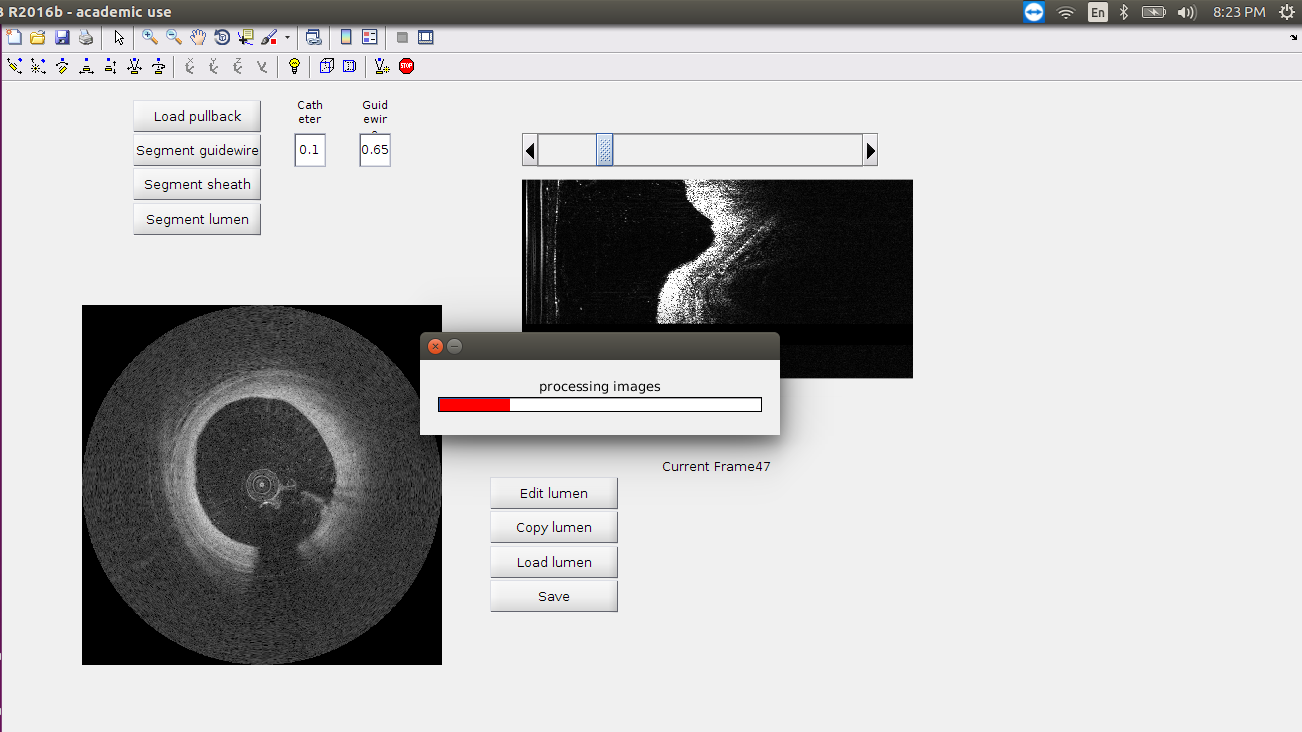
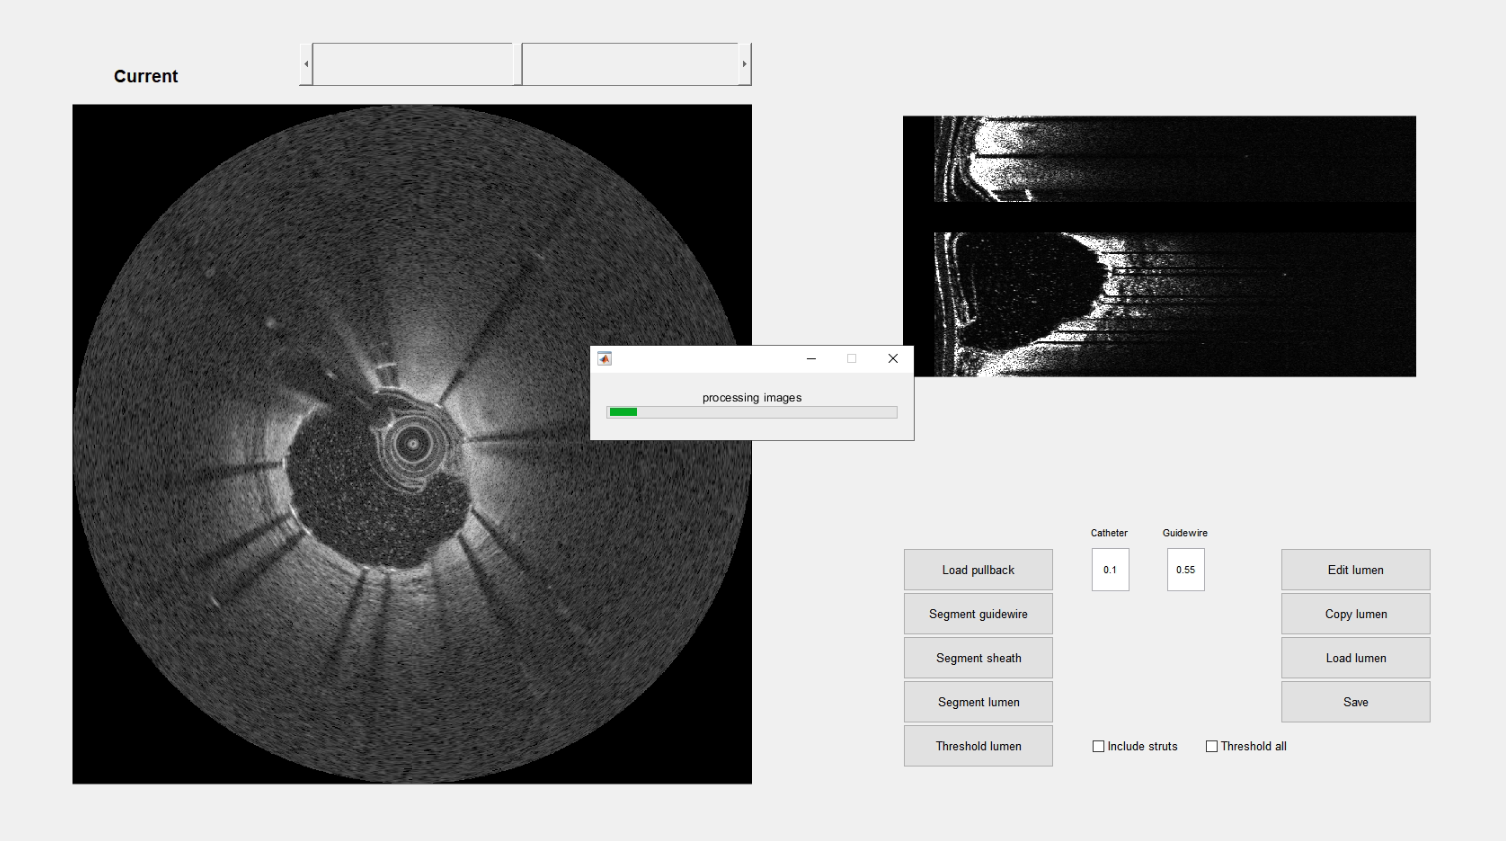
Updated docs and GUI

diff --git a/OCT_GUI.m b/OCT_GUI.m
@@ -13,59 +13,73 @@ rect = [0.35 0.2*aspect_ratio];
 
 % first axis for displaying cartesian view
 GUI.Ax1 = axes('Parent', GUI.Fig, 'Units', 'normalized', 'position', ...
-    [0.05 0.15 1.5*rect(2) 1.5*rect(1)]);
+    [0.05 0.1 2.25*rect(2) 2.25*rect(1)]);
 GUI.Ax1.XTick=0;
 GUI.Ax1.YTick=0;
 
 % second axis for displaying polar view
 GUI.Ax2 = axes('Parent', GUI.Fig, 'Units', 'normalized', 'position', ...
-    [0.4 0.45 1.5*rect(2) 1.5*rect(1)]);
+    [0.6 0.5 1.7*rect(2) 1.25*rect(1)]);
 GUI.Ax2.XTick=0;
 GUI.Ax2.YTick=0;
 
 % buttons for segmentation
 uicontrol('Parent', GUI.Fig, 'style','pushbutton','units', 'normalized', ...
-    'Position',[0.1 0.925 0.1 0.05], 'String', 'Load pullback',...
+    'Position',[0.6 0.325 0.1 0.05], 'String', 'Load pullback',...
     'Callback',@load_images, 'fontsize', 10);
 uicontrol('Parent', GUI.Fig, 'style','pushbutton','units', 'normalized', ...
-    'Position',[0.1 0.875 0.1 0.05], 'String', 'Segment guidewire',...
+    'Position',[0.6 0.275 0.1 0.05], 'String', 'Segment guidewire',...
     'Callback',@segment_gw, 'fontsize', 10);
 uicontrol('Parent', GUI.Fig, 'style','pushbutton','units', 'normalized', ...
-    'Position',[0.1 0.825 0.1 0.05], 'String', 'Segment sheath',...
+    'Position',[0.6 0.225 0.1 0.05], 'String', 'Segment sheath',...
     'Callback',@segment_sheath, 'fontsize', 10);
 uicontrol('Parent', GUI.Fig, 'style','pushbutton','units', 'normalized', ...
-    'Position',[0.1 0.775 0.1 0.05], 'String', 'Segment lumen',...
+    'Position',[0.6 0.175 0.1 0.05], 'String', 'Segment lumen',...
+    'TooltipString', ['Segment all images with dynamic programming'], ...
     'Callback',@segment_lumen, 'fontsize', 10);
 uicontrol('Parent', GUI.Fig, 'style','pushbutton','units', 'normalized', ...
-    'Position',[0.375 0.375 0.1 0.05], 'String', 'Edit lumen',...
-    'Callback',@edit_seg, 'fontsize', 10);
+    'Position',[0.6 0.125 0.1 0.05], 'String', 'Threshold lumen',...
+    'TooltipString', ['Segment current image with threshold'], ...
+    'Callback',@threshold_lumen, 'fontsize', 10);
+
 uicontrol('Parent', GUI.Fig, 'style','pushbutton','units', 'normalized', ...
-    'Position',[0.375 0.325 0.1 0.05], 'String', 'Copy lumen',...
+    'Position',[0.85 0.325 0.1 0.05], 'String', 'Edit lumen',...
+    'Callback',@edit_seg_spline, 'fontsize', 10);
+uicontrol('Parent', GUI.Fig, 'style','pushbutton','units', 'normalized', ...
+    'Position',[0.85 0.275 0.1 0.05], 'String', 'Copy lumen',...
     'Callback',@copy_seg, 'fontsize', 10, 'ToolTipString', ['Copy lumen contour from previous image']);
 uicontrol('Parent', GUI.Fig, 'style','pushbutton','units', 'normalized', ...
-    'Position',[0.375 0.275 0.1 0.05], 'String', 'Load lumen', ...
+    'Position',[0.85 0.225 0.1 0.05], 'String', 'Load lumen', ...
     'Callback',@load_seg, 'fontsize', 10, 'ToolTipString', ['Load saved lumen contour']);
 uicontrol('Parent', GUI.Fig, 'style','pushbutton','units', 'normalized', ...
-    'Position',[0.375 0.225 0.1 0.05], 'String', 'Save', ...
+    'Position',[0.85 0.175 0.1 0.05], 'String', 'Save', ...
     'Callback',@save_seg, 'fontsize', 10);
 
 % initialize first image
 GUI.OCT_image = 1;
-GUI.Txt = uicontrol('Style', 'text',  'Units', 'Normalized', 'FontSize', 10, 'Position', [0.5 0.4 0.1 0.05], 'String',strcat('Current Frame', num2str(GUI.OCT_image)));
+
+GUI.Txt = uicontrol('Style', 'text',  'Units', 'Normalized', 'FontSize', 14, 'FontWeight', 'bold', ...
+    'Position', [0.05 0.9 0.1 0.025], 'String',strcat('Current Frame :', num2str(GUI.OCT_image)));
 
 % edit and text boxes for guidewire thresholds
 img_cath_threshold = 0.2;
 gw_threshold = 0.6;
 GUI.s2 = uicontrol('Parent', GUI.Fig, 'style','edit','units', 'normalized', ...
-    'Position',[0.225 0.875 0.025 0.05], 'String', string(img_cath_threshold), ...
-    'ToolTipString', ['Enter a value for thresholding the catheter']);
+    'Position',[0.725 0.325 0.025 0.05], 'String', string(img_cath_threshold), ...
+    'ToolTipString', ['Enter a value for thresholding the catheter, use a greater value if more than the catheter is removed']);
 GUI.s3 = uicontrol('Parent', GUI.Fig, 'style','edit','units', 'normalized', ...
-    'Position',[0.275 0.875 0.025 0.05], 'String', string(gw_threshold), ...
+    'Position',[0.775 0.325 0.025 0.05], 'String', string(gw_threshold), ...
     'ToolTipString', ['Enter a value for thresholding the guidewire']);
-GUI.Txt1 = uicontrol('Style', 'text',  'Units', 'Normalized', 'FontSize', 8, 'Position', [0.225 0.925 0.025 0.05], 'String','Catheter');
-GUI.Txt2 = uicontrol('Style', 'text',  'Units', 'Normalized', 'FontSize', 8, 'Position', [0.275 0.925 0.025 0.05], 'String','Guidewire');
+GUI.Txt1 = uicontrol('Style', 'text',  'Units', 'Normalized', 'FontSize', 8, 'Position', [0.72 0.375 0.035 0.025], 'String','Catheter');
+GUI.Txt2 = uicontrol('Style', 'text',  'Units', 'Normalized', 'FontSize', 8, 'Position', [0.77 0.375 0.035 0.025], 'String','Guidewire');
 
-
+% checkbox for including stent struts in segmentation
+GUI.s4 = uicontrol('Parent', GUI.Fig, 'style','checkbox','units', 'normalized', ...
+    'Position',[0.725 0.125 0.1 0.05], 'String', 'Include struts', 'fontsize', 10, ...
+    'ToolTipString', ['Check this to include the stent struts inside the lumen mask']);
+GUI.s5 = uicontrol('Parent', GUI.Fig, 'style','checkbox','units', 'normalized', ...
+    'Position',[0.80 0.125 0.1 0.05], 'String', 'Threshold all', 'fontsize', 10, ...
+    'ToolTipString', ['Check this to threshold all images, otherwise just the current image will be processed']);
 
 OCT_polar = [];
 OCT_cart = [];
@@ -74,9 +88,14 @@ OCT_sheath = [];
 output_size = 1024;
 OCT_lumen_contour = [];
 OCT_contour_cart = {};
+OCT_spline = [];
 
 function slide_images(hObj, eventdata)
     GUI.OCT_image = round(get(hObj, 'value'));
+    update_display()
+end
+
+function update_display()
     cla(GUI.Ax1)
     cla(GUI.Ax2)
     imshow(OCT_cart(:,:,GUI.OCT_image), [0 250], 'Parent', GUI.Ax1)
@@ -94,7 +113,7 @@ function load_images(hObj, eventdata)
     format = questdlg('Choose format', 'Select format of OCT files', 'raw (.oct)', 'dicom', 'raw (.oct)');
     output_size = 1024;
     if strcmp(format, 'dicom')
-        [OCT_polar OCT_cart] = OCT_cart2pol('dicom', output_size);
+        [OCT_polar OCT_cart] = OCT_cart2pol();
         GUI.s2.String = string(0.5);
         GUI.s3.String = string(0.8);
     elseif strcmp(format, 'raw (.oct)')
@@ -108,7 +127,7 @@ function load_images(hObj, eventdata)
 
     % create slider
     GUI.s1 = uicontrol('Parent', GUI.Fig, 'Style', 'slider', 'units', 'normalized',...
-    'Min', 1, 'Max',length(OCT_cart(1,1,:)),'Value',1,'Position', [0.4 0.875 0.275 0.05],...
+    'Min', 1, 'Max',length(OCT_cart(1,1,:)),'Value',1,'Position', [0.2 0.9 0.3 0.05],...
         'sliderstep', [1/length(OCT_cart(1,1,:)) 10/length(OCT_cart(1,1,:))], 'Callback', @slide_images); 
     imshow(OCT_cart(:,:,GUI.OCT_image), [0 250], 'Parent', GUI.Ax1)
     imshow(OCT_gw(:,:,GUI.OCT_image), [0 250], 'Parent', GUI.Ax2)
@@ -148,6 +167,31 @@ function segment_lumen(hObj, eventdata)
     plot(OCT_contour_cart{GUI.OCT_image}(:, 1), OCT_contour_cart{GUI.OCT_image}(:, 2), 'Parent', GUI.Ax1)
 end
 
+function threshold_lumen(hObj, eventdata)
+    % thresholds the current image to produce lumen segmentation
+    include_struts = get(GUI.s4, 'value');
+    if get(GUI.s5, 'value') == 1
+        h = waitbar(0, 'processing images');
+        for i =1:length(OCT_gw(1,1,:))
+            waitbar(i/length(OCT_gw(1, 1, :)));
+            OCT_lumen_contour1 = OCT_threshold(OCT_gw(:, :, i), OCT_sheath(:, i), include_struts);
+            OCT_lumen_contour(:, i) = OCT_lumen_contour1;
+            OCT_lumen_contour1 = circshift(OCT_lumen_contour1, length(OCT_lumen_contour1(:,1))/2);
+            OCT_contour_cart(i) = contour2cart(OCT_lumen_contour1, OCT_polar, round(length(OCT_cart(:,1,1,1))/2)*2, 0);            
+        end
+        close(h);
+    else
+        OCT_lumen_contour1 = OCT_threshold(OCT_gw(:, :, GUI.OCT_image), OCT_sheath(:, GUI.OCT_image), include_struts);
+        OCT_lumen_contour(:, GUI.OCT_image) = OCT_lumen_contour1;
+        % convert to cartesian
+        OCT_lumen_contour1 = circshift(OCT_lumen_contour1, length(OCT_lumen_contour1(:,1))/2);
+        OCT_contour_cart(GUI.OCT_image) = contour2cart(OCT_lumen_contour1, OCT_polar, round(length(OCT_cart(:,1,1,1))/2)*2, 0);
+    end
+    plot(OCT_contour_cart{GUI.OCT_image}(:, 1), OCT_contour_cart{GUI.OCT_image}(:, 2), 'Parent', GUI.Ax1)
+    plot(OCT_lumen_contour(:, GUI.OCT_image), 1:length(OCT_gw(:, 1, 1)), 'Parent', GUI.Ax2)
+
+end
+
 function edit_seg(hObj, eventdata)
     % manually edit the segmentation
     % user clicks once to select the point and a second time to place
@@ -158,7 +202,7 @@ function edit_seg(hObj, eventdata)
 %     for i = 1:length(OCT_contour_cart)
         % determine how much undersampling is required
         i=GUI.OCT_image;
-        under_sample = round(length(OCT_contour_cart{1}(:, 1))/30);
+        under_sample = round(length(OCT_contour_cart{i}(:, 1))/30);
         OCT_contour_cart2{i}(:, 1) = OCT_contour_cart{i}(1:under_sample:end, 1);
         OCT_contour_cart2{i}(:, 2) = OCT_contour_cart{i}(1:under_sample:end, 2);
 %     end
@@ -199,6 +243,49 @@ function edit_seg(hObj, eventdata)
         end
     end
     
+end
+
+function edit_seg_spline(hObj, eventdata)
+    % manually edit the segmentation
+    % user  drags sline points around    
+    % downsample contour
+    if length(OCT_contour_cart{GUI.OCT_image}(:, 1)) > 30
+%     for i = 1:length(OCT_contour_cart)
+        % determine how much undersampling is required
+        i=GUI.OCT_image;
+        under_sample = round(length(OCT_contour_cart{i}(:, 1))/30);
+        OCT_contour_cart2{i}(:, 1) = OCT_contour_cart{i}(1:under_sample:end, 1);
+        OCT_contour_cart2{i}(:, 2) = OCT_contour_cart{i}(1:under_sample:end, 2);
+%     end
+    end
+    lumen = [OCT_contour_cart2{GUI.OCT_image}(:,1), OCT_contour_cart2{GUI.OCT_image}(:,2)];
+
+    cla(GUI.Ax1)
+    imshow(OCT_cart(:,:,GUI.OCT_image), [0 250], 'Parent', GUI.Ax1)
+    sp = plot(lumen(:, 1), lumen(:, 2), 'r-', 'Parent', GUI.Ax1);
+    OCT_spline = splineroi();
+    OCT_spline.parent = GUI.Ax1;
+    OCT_spline.hSpline = sp;
+    OCT_spline.addNode(lumen);
+    
+    GUI.compute_button = uicontrol('Parent', GUI.Fig, 'style','pushbutton','units', 'normalized', ...
+    'Position',[0.6 0.075 0.1 0.05], 'String', 'Recompute',...
+    'Callback',@recompute_lumen, 'fontsize', 10);  
+end
+
+function recompute_lumen(hObj, eventdata)
+    % stores the edited lumen contour
+    contour_polar{1} = OCT_spline.calcSpline';
+    contour_polar = contour2pol(contour_polar, OCT_polar, output_size);
+    OCT_lumen_contour1 = circshift(contour_polar, length(OCT_lumen_contour(:,1))/2);
+    contour_cart = contour2cart(OCT_lumen_contour1, OCT_polar, round(length(OCT_cart(:,1,1,1))/2)*2, 0);
+    OCT_contour_cart{GUI.OCT_image} = contour_cart{1};
+    OCT_lumen_contour(:, GUI.OCT_image) = contour_polar;
+    delete(GUI.compute_button);
+    delete(OCT_spline.hSpline);
+    delete(OCT_spline.hPoint);
+    OCT_spline = [];
+    update_display();
 end
 
 function load_seg(hObj, eventdata)

diff --git a/OCT_raw2cart.m b/OCT_raw2cart.m
@@ -1,14 +1,12 @@
-function [OCT OCT_cart2] = OCT_raw2cart(output_size)
+function [OCT, OCT_cart2] = OCT_raw2cart(output_size)
 
 % this function takes a raw OCT pullback and converts it to a cartesian
 % pullback
 
-% [FILENAME PATHNAME] = uigetfile('*.oct');
-% OCT=importdata('C:\Gatech\Neb29\{9B341B61-B726-41F2-9E4E-E881EB97E9DB}.oct');
-
 % read multipage tiff
 [FILENAME PATHNAME] = uigetfile('*.tif');
 sprintf(FILENAME)
+
 % determine image information
 info = imfinfo(strcat(PATHNAME, FILENAME));
 num_images = numel(info);
@@ -38,48 +36,3 @@ if nargin == 1
         OCT_cart2(:, :, i) = fliplr(OCT_cart2(:, :, i));
     end
 end
-% % transpose OCT iimage so that rows represent depth
-% OCT_image=OCT(:,:,i)';
-% 
-% % create cartesian and polar grids
-% THETA = linspace(1, 360, length(OCT_image(1, :)));
-% THETA = repmat(THETA, length(OCT_image(:, 1)), 1);
-% % assuming outer sheath is 1mm create 9.4e-6 (applies for 10x10mm
-% % cartesian(catheter dia = 0.9024mm)
-% % also, while 7x7mm cartesian has 6.9e-6 resolution (catheter dia=0.93mm). 
-% 
-% pixel_size = 9.4e-6;
-% RAD = repmat((1:length(OCT_image(1, :)))'.*pixel_size, 1, length(OCT_image(1, :)));
-% 
-% % set image limit based on the pixel size and image size
-% image_limit = 2*max(max(RAD));
-% 
-% % determine pixel size for a 1024x1024 image
-% pixel_size2 = image_limit/output_size;
-% 
-% % create a 1024x1024 cartesian grid with polar coordinates
-% [x y] = meshgrid(1:1024, 1:1024);
-% x = x.*pixel_size2;
-% y = y.*pixel_size2;
-% 
-% % convert original polar to cartesian
-% [X Y] =pol2cart(deg2rad(THETA), RAD);
-% cx = (output_size/2)*pixel_size2;
-% cy = (output_size/2)*pixel_size2;
-% X = RAD.*cosd(THETA) + cx;
-% Y = RAD.*sind(THETA) + cy;
-% 
-% OCT_cart = interp2(X, Y, double(OCT(:,:,1)), x, y);
-% 
-% % convert cartesian to polar 
-% [theta_new rad_new] = cart2pol(x - (length(x)/2)*pixel_size, y - (length(y)/2)*pixel_size);
-% 
-% rad_new = rad_new - max(max(rad_new))/2;
-% % convert from polar to degrees
-% theta_new = rad2deg(theta_new);
-% theta_new(theta_new < 0) = theta_new(theta_new < 0) + 360;
-% 
-% OCT_cart = interp2(THETA, RAD, double(OCT(:,:,1)), theta_new, rad_new);
-% 
-% imR = PolarToIm (double(OCT(:,:,i)'), 0, 1, 1024, 1024);
-% 

diff --git a/readme.md b/readme.md
@@ -41,17 +41,19 @@ The success of the sheath segmentation can be judged in the polar domain by chec
 
 ![Alt Text](docs/Sheath3.png)
 
-Finally, by pressing **Segment lumen** the lumen segmentation process begins. This should take less than 30 minutes on a laptop.
-The success of the lumen segmentation can be judged in both the polar and cartesian domains. The save button can then be used to save the image and the lumen/sheath contours.
+There are 2 choices for lumen segmentation. These options can be selected by the **Segment lumen** or **Threshold lumen** button. The **Segment lumen** method should take less than 30 minutes on a laptop.
+The success of the lumen segmentation can be judged in both the polar and cartesian domains. 
+The second method of segmenting the lumen is through thresholding with the **Threshold lumen** button. This can be applied at the individual slice level or at all levels by checking the **Threshold all** box.
 
 ![Alt Text](docs/Lumen.png)
 
 If some of the lumen contours are not satifactory these can be edited by pressing the **Edit lumen** button.
-This creates a crosshair which can be used to select points in the cartesian view and move these points to a new position. 
-After placing the points in new positions the return button completes the process
+This generates a spline where the points can be moved from until satisfied. When satisfied with the position of the points press the **Recompute** button.
 
 ![Alt Text](docs/Edit.png)
 
+The **Copy lumen** button will copy the contour from the previous image to the current image
+Both the sheath and the lumen contours can be saved and  loaded by the **Save** and **Load lumen** buttons respectively.
 
 ## Requirements
-The code has been tested on Matlab R2016b. It requires the signal processing and image processing toolboxes
+The code has been tested on Matlab R2016b. It requires the signal processing and image processing toolboxes. This code also adapts the interactive spline code *splineroi* from [here](https://www.mathworks.com/matlabcentral/fileexchange/23337-interactive-spline-region-of-interest) for manual editing.
